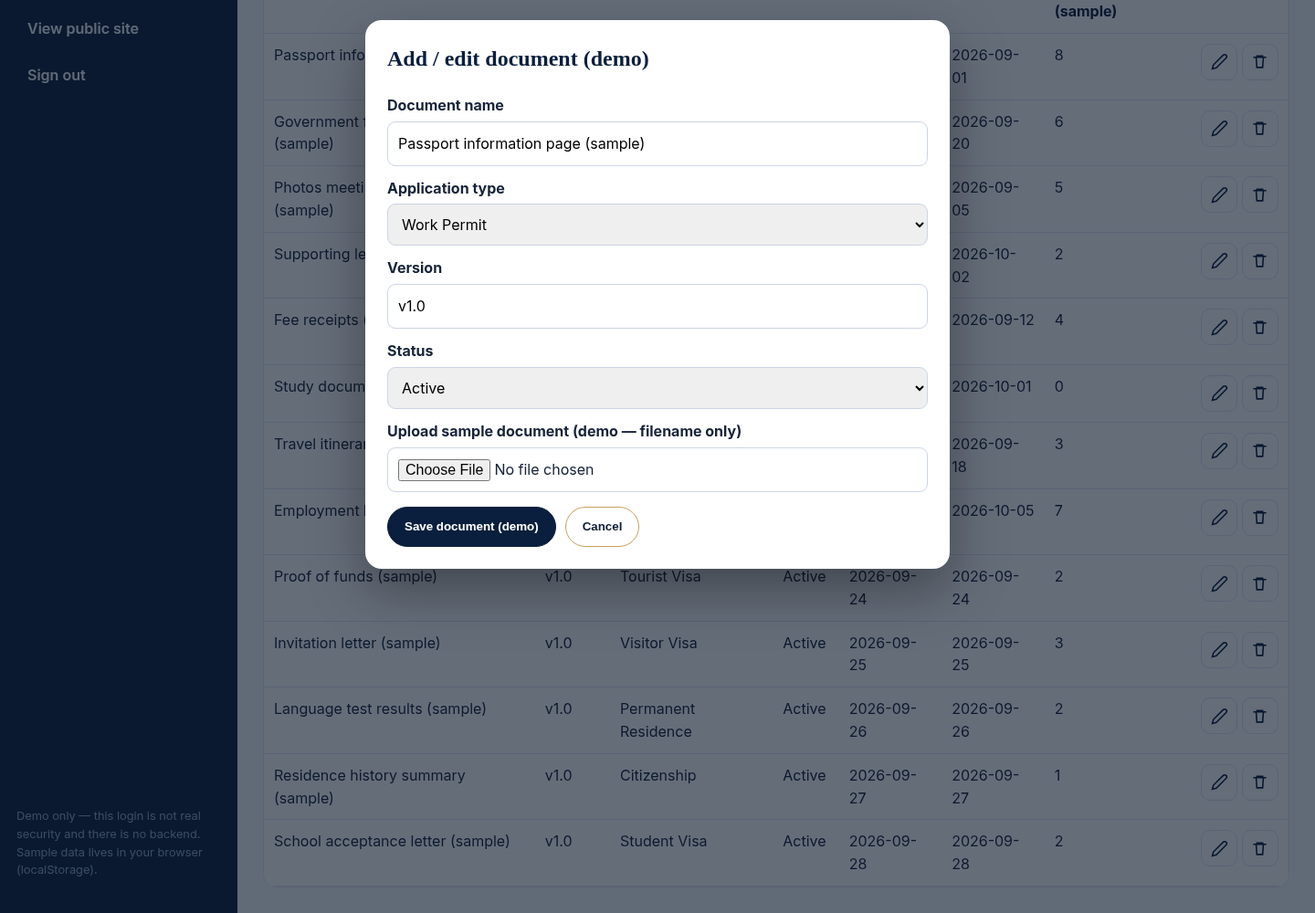
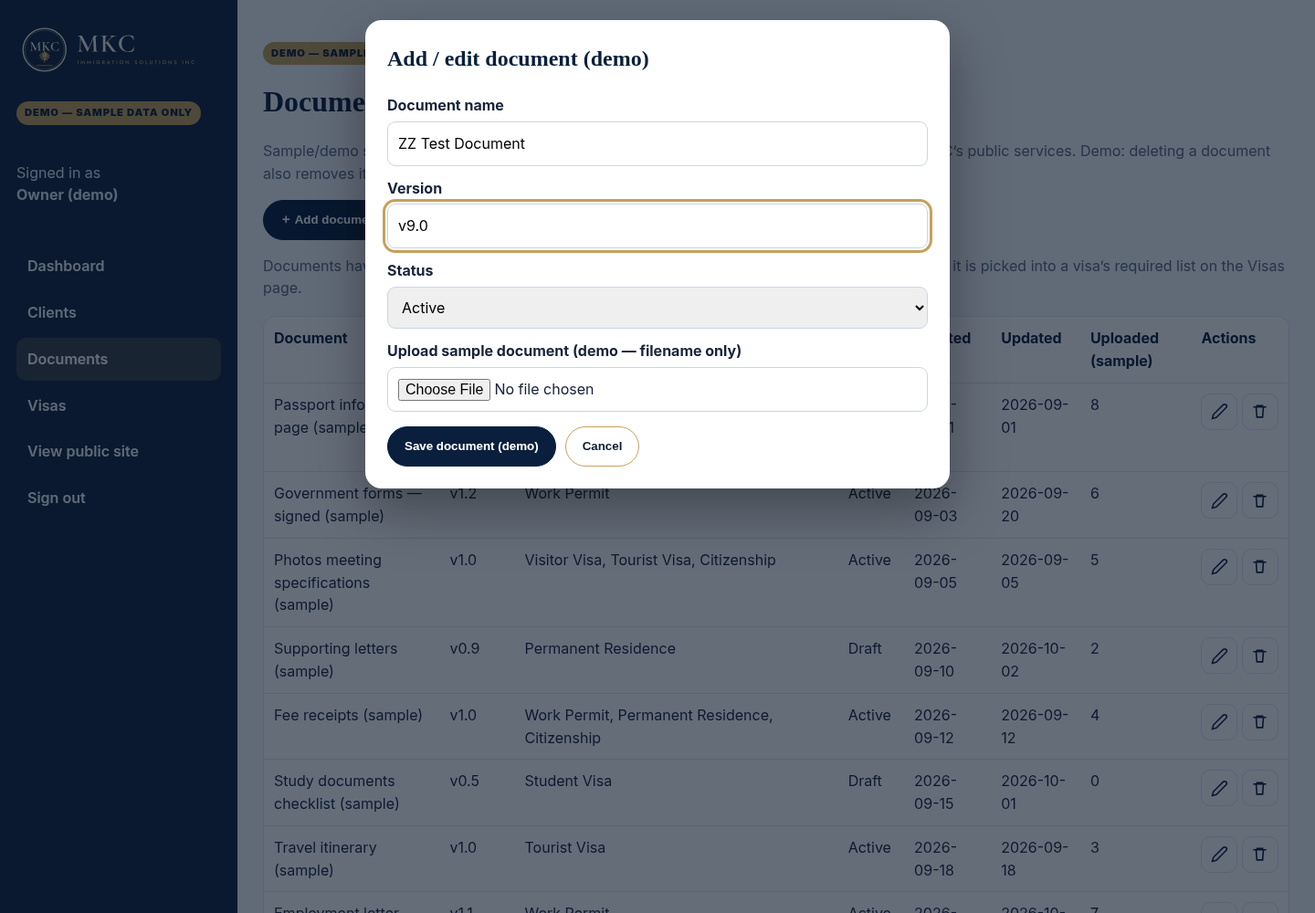
Remove application type from documents; derive required-for from visas

diff --git a/dist/assets/demo-data.js b/dist/assets/demo-data.js
@@ -13,20 +13,20 @@ var ALIAS={'Permanent Resident':'Permanent Residence','Student':'Student Visa','
 function alias(t){return ALIAS[t]||t;}
 function today(){return new Date().toISOString().slice(0,10);}
 function docsSeed(){return [
- {id:'d1',name:'Passport information page (sample)',version:'v1.0',type:'Work Permit',status:'Active',createdAt:'2026-09-01',updatedAt:'2026-09-01',uploaded:8,sampleFileName:''},
- {id:'d2',name:'Government forms — signed (sample)',version:'v1.2',type:'Work Permit',status:'Active',createdAt:'2026-09-03',updatedAt:'2026-09-20',uploaded:6,sampleFileName:''},
- {id:'d3',name:'Photos meeting specifications (sample)',version:'v1.0',type:'Visitor Visa',status:'Active',createdAt:'2026-09-05',updatedAt:'2026-09-05',uploaded:5,sampleFileName:''},
- {id:'d4',name:'Supporting letters (sample)',version:'v0.9',type:'Permanent Residence',status:'Draft',createdAt:'2026-09-10',updatedAt:'2026-10-02',uploaded:2,sampleFileName:''},
- {id:'d5',name:'Fee receipts (sample)',version:'v1.0',type:'Citizenship',status:'Active',createdAt:'2026-09-12',updatedAt:'2026-09-12',uploaded:4,sampleFileName:''},
- {id:'d6',name:'Study documents checklist (sample)',version:'v0.5',type:'Student Visa',status:'Draft',createdAt:'2026-09-15',updatedAt:'2026-10-01',uploaded:0,sampleFileName:''},
- {id:'d7',name:'Travel itinerary (sample)',version:'v1.0',type:'Tourist Visa',status:'Active',createdAt:'2026-09-18',updatedAt:'2026-09-18',uploaded:3,sampleFileName:''},
- {id:'d8',name:'Employment letter (sample)',version:'v1.1',type:'Work Permit',status:'Active',createdAt:'2026-09-22',updatedAt:'2026-10-05',uploaded:7,sampleFileName:''},
- {id:'d9',name:'Proof of funds (sample)',version:'v1.0',type:'Tourist Visa',status:'Active',createdAt:'2026-09-24',updatedAt:'2026-09-24',uploaded:2,sampleFileName:''},
- {id:'d10',name:'Invitation letter (sample)',version:'v1.0',type:'Visitor Visa',status:'Active',createdAt:'2026-09-25',updatedAt:'2026-09-25',uploaded:3,sampleFileName:''},
- {id:'d11',name:'Language test results (sample)',version:'v1.0',type:'Permanent Residence',status:'Active',createdAt:'2026-09-26',updatedAt:'2026-09-26',uploaded:2,sampleFileName:''},
- {id:'d12',name:'Residence history summary (sample)',version:'v1.0',type:'Citizenship',status:'Active',createdAt:'2026-09-27',updatedAt:'2026-09-27',uploaded:1,sampleFileName:''},
- {id:'d13',name:'School acceptance letter (sample)',version:'v1.0',type:'Student Visa',status:'Active',createdAt:'2026-09-28',updatedAt:'2026-09-28',uploaded:2,sampleFileName:''},
- {id:'d14',name:'Consultation notes (sample)',version:'v1.0',type:'General Consulting',status:'Active',createdAt:'2026-09-29',updatedAt:'2026-09-29',uploaded:1,sampleFileName:''}];}
+ {id:'d1',name:'Passport information page (sample)',version:'v1.0',status:'Active',createdAt:'2026-09-01',updatedAt:'2026-09-01',uploaded:8,sampleFileName:''},
+ {id:'d2',name:'Government forms — signed (sample)',version:'v1.2',status:'Active',createdAt:'2026-09-03',updatedAt:'2026-09-20',uploaded:6,sampleFileName:''},
+ {id:'d3',name:'Photos meeting specifications (sample)',version:'v1.0',status:'Active',createdAt:'2026-09-05',updatedAt:'2026-09-05',uploaded:5,sampleFileName:''},
+ {id:'d4',name:'Supporting letters (sample)',version:'v0.9',status:'Draft',createdAt:'2026-09-10',updatedAt:'2026-10-02',uploaded:2,sampleFileName:''},
+ {id:'d5',name:'Fee receipts (sample)',version:'v1.0',status:'Active',createdAt:'2026-09-12',updatedAt:'2026-09-12',uploaded:4,sampleFileName:''},
+ {id:'d6',name:'Study documents checklist (sample)',version:'v0.5',status:'Draft',createdAt:'2026-09-15',updatedAt:'2026-10-01',uploaded:0,sampleFileName:''},
+ {id:'d7',name:'Travel itinerary (sample)',version:'v1.0',status:'Active',createdAt:'2026-09-18',updatedAt:'2026-09-18',uploaded:3,sampleFileName:''},
+ {id:'d8',name:'Employment letter (sample)',version:'v1.1',status:'Active',createdAt:'2026-09-22',updatedAt:'2026-10-05',uploaded:7,sampleFileName:''},
+ {id:'d9',name:'Proof of funds (sample)',version:'v1.0',status:'Active',createdAt:'2026-09-24',updatedAt:'2026-09-24',uploaded:2,sampleFileName:''},
+ {id:'d10',name:'Invitation letter (sample)',version:'v1.0',status:'Active',createdAt:'2026-09-25',updatedAt:'2026-09-25',uploaded:3,sampleFileName:''},
+ {id:'d11',name:'Language test results (sample)',version:'v1.0',status:'Active',createdAt:'2026-09-26',updatedAt:'2026-09-26',uploaded:2,sampleFileName:''},
+ {id:'d12',name:'Residence history summary (sample)',version:'v1.0',status:'Active',createdAt:'2026-09-27',updatedAt:'2026-09-27',uploaded:1,sampleFileName:''},
+ {id:'d13',name:'School acceptance letter (sample)',version:'v1.0',status:'Active',createdAt:'2026-09-28',updatedAt:'2026-09-28',uploaded:2,sampleFileName:''},
+ {id:'d14',name:'Consultation notes (sample)',version:'v1.0',status:'Active',createdAt:'2026-09-29',updatedAt:'2026-09-29',uploaded:1,sampleFileName:''}];}
 function visasSeed(){function v(id,name,eff,notes,docIds){return {id:id,name:name,effective:eff,notes:notes,docIds:docIds,createdAt:'2026-09-01',updatedAt:'2026-10-01'};}
  return [v('v-work','Work Permit','2026-01-01','Sample visa entry for demo purposes.',['d1','d2','d8','d5']),
  v('v-visitor','Visitor Visa','2026-01-01','Sample visa entry for demo purposes.',['d1','d3','d10','d9']),
@@ -52,7 +52,7 @@ function migrate(old){
  var s=seed(); try{
   if(old.clients&&old.clients.length)s.clients=old.clients.map(function(c){c.middle=c.middle||'';c.createdAt=c.createdAt||c.date||'2026-09-01';c.updatedAt=c.updatedAt||c.createdAt;return c;});
   if(old.applications&&old.applications.length)s.applications=old.applications.map(function(a){a.type=alias(a.type);a.createdAt=a.createdAt||a.date||today();a.updatedAt=a.updatedAt||a.createdAt;return a;});
-  if(old.documents&&old.documents.length)s.documents=old.documents.map(function(d){d.type=alias(d.type);d.sampleFileName=d.sampleFileName||'';return d;});
+  if(old.documents&&old.documents.length)s.documents=old.documents.map(function(d){delete d.type;delete d.applicationType;d.sampleFileName=d.sampleFileName||'';return d;});
   if(old.tasks)s.tasks=old.tasks; if(old.announcements)s.announcements=old.announcements;
   // carry checklist state by keyword -> docId
   var kw=[['passport','d1'],['form','d2'],['photo','d3'],['support','d4'],['fee','d5']];
@@ -61,7 +61,8 @@ function migrate(old){
  }catch(e){}
  return s;
 }
-function load(){try{var raw=localStorage.getItem(KEY);if(raw){var d=JSON.parse(raw);if(d&&d.version===2)return d;}
+function stripDocTypes(d){var changed=false;(d.documents||[]).forEach(function(doc){if('type' in doc){delete doc.type;changed=true;}if('applicationType' in doc){delete doc.applicationType;changed=true;}});return changed;}
+function load(){try{var raw=localStorage.getItem(KEY);if(raw){var d=JSON.parse(raw);if(d&&d.version===2){if(stripDocTypes(d))save(d);return d;}}
  var oldRaw=localStorage.getItem(OLDKEY); if(oldRaw){var m=migrate(JSON.parse(oldRaw)); save(m); return m;}}catch(e){} var s=seed();save(s);return s;}
 function save(d){localStorage.setItem(KEY,JSON.stringify(d));}
 function reset(){localStorage.removeItem(KEY);localStorage.removeItem(OLDKEY);return load();}

diff --git a/site/assets/demo-data.js b/site/assets/demo-data.js
@@ -13,20 +13,20 @@ var ALIAS={'Permanent Resident':'Permanent Residence','Student':'Student Visa','
 function alias(t){return ALIAS[t]||t;}
 function today(){return new Date().toISOString().slice(0,10);}
 function docsSeed(){return [
- {id:'d1',name:'Passport information page (sample)',version:'v1.0',type:'Work Permit',status:'Active',createdAt:'2026-09-01',updatedAt:'2026-09-01',uploaded:8,sampleFileName:''},
- {id:'d2',name:'Government forms — signed (sample)',version:'v1.2',type:'Work Permit',status:'Active',createdAt:'2026-09-03',updatedAt:'2026-09-20',uploaded:6,sampleFileName:''},
- {id:'d3',name:'Photos meeting specifications (sample)',version:'v1.0',type:'Visitor Visa',status:'Active',createdAt:'2026-09-05',updatedAt:'2026-09-05',uploaded:5,sampleFileName:''},
- {id:'d4',name:'Supporting letters (sample)',version:'v0.9',type:'Permanent Residence',status:'Draft',createdAt:'2026-09-10',updatedAt:'2026-10-02',uploaded:2,sampleFileName:''},
- {id:'d5',name:'Fee receipts (sample)',version:'v1.0',type:'Citizenship',status:'Active',createdAt:'2026-09-12',updatedAt:'2026-09-12',uploaded:4,sampleFileName:''},
- {id:'d6',name:'Study documents checklist (sample)',version:'v0.5',type:'Student Visa',status:'Draft',createdAt:'2026-09-15',updatedAt:'2026-10-01',uploaded:0,sampleFileName:''},
- {id:'d7',name:'Travel itinerary (sample)',version:'v1.0',type:'Tourist Visa',status:'Active',createdAt:'2026-09-18',updatedAt:'2026-09-18',uploaded:3,sampleFileName:''},
- {id:'d8',name:'Employment letter (sample)',version:'v1.1',type:'Work Permit',status:'Active',createdAt:'2026-09-22',updatedAt:'2026-10-05',uploaded:7,sampleFileName:''},
- {id:'d9',name:'Proof of funds (sample)',version:'v1.0',type:'Tourist Visa',status:'Active',createdAt:'2026-09-24',updatedAt:'2026-09-24',uploaded:2,sampleFileName:''},
- {id:'d10',name:'Invitation letter (sample)',version:'v1.0',type:'Visitor Visa',status:'Active',createdAt:'2026-09-25',updatedAt:'2026-09-25',uploaded:3,sampleFileName:''},
- {id:'d11',name:'Language test results (sample)',version:'v1.0',type:'Permanent Residence',status:'Active',createdAt:'2026-09-26',updatedAt:'2026-09-26',uploaded:2,sampleFileName:''},
- {id:'d12',name:'Residence history summary (sample)',version:'v1.0',type:'Citizenship',status:'Active',createdAt:'2026-09-27',updatedAt:'2026-09-27',uploaded:1,sampleFileName:''},
- {id:'d13',name:'School acceptance letter (sample)',version:'v1.0',type:'Student Visa',status:'Active',createdAt:'2026-09-28',updatedAt:'2026-09-28',uploaded:2,sampleFileName:''},
- {id:'d14',name:'Consultation notes (sample)',version:'v1.0',type:'General Consulting',status:'Active',createdAt:'2026-09-29',updatedAt:'2026-09-29',uploaded:1,sampleFileName:''}];}
+ {id:'d1',name:'Passport information page (sample)',version:'v1.0',status:'Active',createdAt:'2026-09-01',updatedAt:'2026-09-01',uploaded:8,sampleFileName:''},
+ {id:'d2',name:'Government forms — signed (sample)',version:'v1.2',status:'Active',createdAt:'2026-09-03',updatedAt:'2026-09-20',uploaded:6,sampleFileName:''},
+ {id:'d3',name:'Photos meeting specifications (sample)',version:'v1.0',status:'Active',createdAt:'2026-09-05',updatedAt:'2026-09-05',uploaded:5,sampleFileName:''},
+ {id:'d4',name:'Supporting letters (sample)',version:'v0.9',status:'Draft',createdAt:'2026-09-10',updatedAt:'2026-10-02',uploaded:2,sampleFileName:''},
+ {id:'d5',name:'Fee receipts (sample)',version:'v1.0',status:'Active',createdAt:'2026-09-12',updatedAt:'2026-09-12',uploaded:4,sampleFileName:''},
+ {id:'d6',name:'Study documents checklist (sample)',version:'v0.5',status:'Draft',createdAt:'2026-09-15',updatedAt:'2026-10-01',uploaded:0,sampleFileName:''},
+ {id:'d7',name:'Travel itinerary (sample)',version:'v1.0',status:'Active',createdAt:'2026-09-18',updatedAt:'2026-09-18',uploaded:3,sampleFileName:''},
+ {id:'d8',name:'Employment letter (sample)',version:'v1.1',status:'Active',createdAt:'2026-09-22',updatedAt:'2026-10-05',uploaded:7,sampleFileName:''},
+ {id:'d9',name:'Proof of funds (sample)',version:'v1.0',status:'Active',createdAt:'2026-09-24',updatedAt:'2026-09-24',uploaded:2,sampleFileName:''},
+ {id:'d10',name:'Invitation letter (sample)',version:'v1.0',status:'Active',createdAt:'2026-09-25',updatedAt:'2026-09-25',uploaded:3,sampleFileName:''},
+ {id:'d11',name:'Language test results (sample)',version:'v1.0',status:'Active',createdAt:'2026-09-26',updatedAt:'2026-09-26',uploaded:2,sampleFileName:''},
+ {id:'d12',name:'Residence history summary (sample)',version:'v1.0',status:'Active',createdAt:'2026-09-27',updatedAt:'2026-09-27',uploaded:1,sampleFileName:''},
+ {id:'d13',name:'School acceptance letter (sample)',version:'v1.0',status:'Active',createdAt:'2026-09-28',updatedAt:'2026-09-28',uploaded:2,sampleFileName:''},
+ {id:'d14',name:'Consultation notes (sample)',version:'v1.0',status:'Active',createdAt:'2026-09-29',updatedAt:'2026-09-29',uploaded:1,sampleFileName:''}];}
 function visasSeed(){function v(id,name,eff,notes,docIds){return {id:id,name:name,effective:eff,notes:notes,docIds:docIds,createdAt:'2026-09-01',updatedAt:'2026-10-01'};}
  return [v('v-work','Work Permit','2026-01-01','Sample visa entry for demo purposes.',['d1','d2','d8','d5']),
  v('v-visitor','Visitor Visa','2026-01-01','Sample visa entry for demo purposes.',['d1','d3','d10','d9']),
@@ -52,7 +52,7 @@ function migrate(old){
  var s=seed(); try{
   if(old.clients&&old.clients.length)s.clients=old.clients.map(function(c){c.middle=c.middle||'';c.createdAt=c.createdAt||c.date||'2026-09-01';c.updatedAt=c.updatedAt||c.createdAt;return c;});
   if(old.applications&&old.applications.length)s.applications=old.applications.map(function(a){a.type=alias(a.type);a.createdAt=a.createdAt||a.date||today();a.updatedAt=a.updatedAt||a.createdAt;return a;});
-  if(old.documents&&old.documents.length)s.documents=old.documents.map(function(d){d.type=alias(d.type);d.sampleFileName=d.sampleFileName||'';return d;});
+  if(old.documents&&old.documents.length)s.documents=old.documents.map(function(d){delete d.type;delete d.applicationType;d.sampleFileName=d.sampleFileName||'';return d;});
   if(old.tasks)s.tasks=old.tasks; if(old.announcements)s.announcements=old.announcements;
   // carry checklist state by keyword -> docId
   var kw=[['passport','d1'],['form','d2'],['photo','d3'],['support','d4'],['fee','d5']];
@@ -61,7 +61,8 @@ function migrate(old){
  }catch(e){}
  return s;
 }
-function load(){try{var raw=localStorage.getItem(KEY);if(raw){var d=JSON.parse(raw);if(d&&d.version===2)return d;}
+function stripDocTypes(d){var changed=false;(d.documents||[]).forEach(function(doc){if('type' in doc){delete doc.type;changed=true;}if('applicationType' in doc){delete doc.applicationType;changed=true;}});return changed;}
+function load(){try{var raw=localStorage.getItem(KEY);if(raw){var d=JSON.parse(raw);if(d&&d.version===2){if(stripDocTypes(d))save(d);return d;}}
  var oldRaw=localStorage.getItem(OLDKEY); if(oldRaw){var m=migrate(JSON.parse(oldRaw)); save(m); return m;}}catch(e){} var s=seed();save(s);return s;}
 function save(d){localStorage.setItem(KEY,JSON.stringify(d));}
 function reset(){localStorage.removeItem(KEY);localStorage.removeItem(OLDKEY);return load();}

diff --git a/dist/assets/dashboard.js b/dist/assets/dashboard.js
@@ -105,17 +105,16 @@ if(page==='clients'){
 /* ================= OWNER: documents ================= */
 if(page==='documents'){
  var pendingDelete=null;
- function render(){var ty=$('dType').value;var list=data.documents.filter(function(d){return !ty||d.type===ty;});
-  $('docRows').innerHTML=list.map(function(d){return '<tr><td>'+esc(d.name)+'</td><td>'+esc(d.version)+'</td><td>'+esc(d.type)+'</td><td>'+esc(d.status)+'</td><td>'+esc(d.createdAt)+'</td><td>'+esc(d.updatedAt)+'</td><td>'+d.uploaded+(d.sampleFileName?'<br><span class="muted">Sample file: '+esc(d.sampleFileName)+'</span>':'')+'</td><td style="white-space:nowrap"><button type="button" class="icon-btn" data-edit="'+d.id+'" aria-label="Edit document '+esc(d.name)+'" title="Edit document">'+PENCIL+'</button> <button type="button" class="icon-btn danger" data-del="'+d.id+'" aria-label="Delete document '+esc(d.name)+'" title="Delete document">'+TRASH+'</button></td></tr>';}).join('');
-  document.querySelectorAll('[data-edit]').forEach(function(b){b.addEventListener('click',function(){var d=S.docById(data,b.getAttribute('data-edit'));$('docId').value=d.id;$('docName').value=d.name;$('docTypeForm').value=d.type;$('docVersion').value=d.version;$('docStatus').value=d.status;$('docFileName').textContent=d.sampleFileName?('Sample file (name only): '+d.sampleFileName):'';openModal('docModal');lastFocus=b;});});
+ function render(){var list=data.documents;
+  $('docRows').innerHTML=list.map(function(d){return '<tr><td>'+esc(d.name)+'</td><td>'+esc(d.version)+'</td><td>'+esc((data.visas||[]).filter(function(v){return v.docIds.indexOf(d.id)>-1;}).map(function(v){return v.name;}).join(', ')||'—')+'</td><td>'+esc(d.status)+'</td><td>'+esc(d.createdAt)+'</td><td>'+esc(d.updatedAt)+'</td><td>'+d.uploaded+(d.sampleFileName?'<br><span class="muted">Sample file: '+esc(d.sampleFileName)+'</span>':'')+'</td><td style="white-space:nowrap"><button type="button" class="icon-btn" data-edit="'+d.id+'" aria-label="Edit document '+esc(d.name)+'" title="Edit document">'+PENCIL+'</button> <button type="button" class="icon-btn danger" data-del="'+d.id+'" aria-label="Delete document '+esc(d.name)+'" title="Delete document">'+TRASH+'</button></td></tr>';}).join('');
+  document.querySelectorAll('[data-edit]').forEach(function(b){b.addEventListener('click',function(){var d=S.docById(data,b.getAttribute('data-edit'));$('docId').value=d.id;$('docName').value=d.name;$('docVersion').value=d.version;$('docStatus').value=d.status;$('docFileName').textContent=d.sampleFileName?('Sample file (name only): '+d.sampleFileName):'';openModal('docModal');lastFocus=b;});});
   document.querySelectorAll('[data-del]').forEach(function(b){b.addEventListener('click',function(){pendingDelete=b.getAttribute('data-del');var d=S.docById(data,pendingDelete);$('deleteMsg').textContent='Delete “'+d.name+'” (demo)? It will also be removed from any visa required-document lists that use it.';openModal('confirmModal');lastFocus=b;});});}
  $('confirmDelete').addEventListener('click',function(){if(!pendingDelete)return;data.documents=data.documents.filter(function(d){return d.id!==pendingDelete;});data.visas.forEach(function(v){v.docIds=v.docIds.filter(function(id){return id!==pendingDelete;});v.updatedAt=S.today();});pendingDelete=null;S.save(data);closeModal('confirmModal');render();});
- $('dType').addEventListener('input',render);
  $('addDocBtn').addEventListener('click',function(){$('docForm').reset();$('docId').value='';$('docFileName').textContent='';openModal('docModal');});
  $('docFile').addEventListener('change',function(){var d=S.docById(data,$('docId').value);var name=$('docFile').files[0]?$('docFile').files[0].name:'';if(name){$('docFileName').textContent='Sample file (name only): '+name;if(d){d.sampleFileName=name;d.updatedAt=S.today();S.save(data);render();}else{$('docFileName').dataset.pending=name;}}});
  $('docForm').addEventListener('submit',function(e){e.preventDefault();var today=S.today();var id=$('docId').value;
-  if(id){var d=S.docById(data,id);d.name=$('docName').value;d.type=$('docTypeForm').value;d.version=$('docVersion').value;d.status=$('docStatus').value;d.updatedAt=today;if($('docFileName').dataset.pending){d.sampleFileName=$('docFileName').dataset.pending;delete $('docFileName').dataset.pending;}$('docMsg').textContent='Updated sample document.';}
-  else{data.documents.push({id:'d-'+Date.now(),name:$('docName').value,type:$('docTypeForm').value,version:$('docVersion').value||'v1.0',status:$('docStatus').value,createdAt:today,updatedAt:today,uploaded:0,sampleFileName:$('docFileName').dataset.pending||''});delete $('docFileName').dataset.pending;$('docMsg').textContent='Added sample document.';}
+  if(id){var d=S.docById(data,id);d.name=$('docName').value;delete d.type;delete d.applicationType;d.version=$('docVersion').value;d.status=$('docStatus').value;d.updatedAt=today;if($('docFileName').dataset.pending){d.sampleFileName=$('docFileName').dataset.pending;delete $('docFileName').dataset.pending;}$('docMsg').textContent='Updated sample document.';}
+  else{data.documents.push({id:'d-'+Date.now(),name:$('docName').value,version:$('docVersion').value||'v1.0',status:$('docStatus').value,createdAt:today,updatedAt:today,uploaded:0,sampleFileName:$('docFileName').dataset.pending||''});delete $('docFileName').dataset.pending;$('docMsg').textContent='Added sample document.';}
   S.save(data);closeModal('docModal');render();});
  render();
 }

diff --git a/site/assets/dashboard.js b/site/assets/dashboard.js
@@ -105,17 +105,16 @@ if(page==='clients'){
 /* ================= OWNER: documents ================= */
 if(page==='documents'){
  var pendingDelete=null;
- function render(){var ty=$('dType').value;var list=data.documents.filter(function(d){return !ty||d.type===ty;});
-  $('docRows').innerHTML=list.map(function(d){return '<tr><td>'+esc(d.name)+'</td><td>'+esc(d.version)+'</td><td>'+esc(d.type)+'</td><td>'+esc(d.status)+'</td><td>'+esc(d.createdAt)+'</td><td>'+esc(d.updatedAt)+'</td><td>'+d.uploaded+(d.sampleFileName?'<br><span class="muted">Sample file: '+esc(d.sampleFileName)+'</span>':'')+'</td><td style="white-space:nowrap"><button type="button" class="icon-btn" data-edit="'+d.id+'" aria-label="Edit document '+esc(d.name)+'" title="Edit document">'+PENCIL+'</button> <button type="button" class="icon-btn danger" data-del="'+d.id+'" aria-label="Delete document '+esc(d.name)+'" title="Delete document">'+TRASH+'</button></td></tr>';}).join('');
-  document.querySelectorAll('[data-edit]').forEach(function(b){b.addEventListener('click',function(){var d=S.docById(data,b.getAttribute('data-edit'));$('docId').value=d.id;$('docName').value=d.name;$('docTypeForm').value=d.type;$('docVersion').value=d.version;$('docStatus').value=d.status;$('docFileName').textContent=d.sampleFileName?('Sample file (name only): '+d.sampleFileName):'';openModal('docModal');lastFocus=b;});});
+ function render(){var list=data.documents;
+  $('docRows').innerHTML=list.map(function(d){return '<tr><td>'+esc(d.name)+'</td><td>'+esc(d.version)+'</td><td>'+esc((data.visas||[]).filter(function(v){return v.docIds.indexOf(d.id)>-1;}).map(function(v){return v.name;}).join(', ')||'—')+'</td><td>'+esc(d.status)+'</td><td>'+esc(d.createdAt)+'</td><td>'+esc(d.updatedAt)+'</td><td>'+d.uploaded+(d.sampleFileName?'<br><span class="muted">Sample file: '+esc(d.sampleFileName)+'</span>':'')+'</td><td style="white-space:nowrap"><button type="button" class="icon-btn" data-edit="'+d.id+'" aria-label="Edit document '+esc(d.name)+'" title="Edit document">'+PENCIL+'</button> <button type="button" class="icon-btn danger" data-del="'+d.id+'" aria-label="Delete document '+esc(d.name)+'" title="Delete document">'+TRASH+'</button></td></tr>';}).join('');
+  document.querySelectorAll('[data-edit]').forEach(function(b){b.addEventListener('click',function(){var d=S.docById(data,b.getAttribute('data-edit'));$('docId').value=d.id;$('docName').value=d.name;$('docVersion').value=d.version;$('docStatus').value=d.status;$('docFileName').textContent=d.sampleFileName?('Sample file (name only): '+d.sampleFileName):'';openModal('docModal');lastFocus=b;});});
   document.querySelectorAll('[data-del]').forEach(function(b){b.addEventListener('click',function(){pendingDelete=b.getAttribute('data-del');var d=S.docById(data,pendingDelete);$('deleteMsg').textContent='Delete “'+d.name+'” (demo)? It will also be removed from any visa required-document lists that use it.';openModal('confirmModal');lastFocus=b;});});}
  $('confirmDelete').addEventListener('click',function(){if(!pendingDelete)return;data.documents=data.documents.filter(function(d){return d.id!==pendingDelete;});data.visas.forEach(function(v){v.docIds=v.docIds.filter(function(id){return id!==pendingDelete;});v.updatedAt=S.today();});pendingDelete=null;S.save(data);closeModal('confirmModal');render();});
- $('dType').addEventListener('input',render);
  $('addDocBtn').addEventListener('click',function(){$('docForm').reset();$('docId').value='';$('docFileName').textContent='';openModal('docModal');});
  $('docFile').addEventListener('change',function(){var d=S.docById(data,$('docId').value);var name=$('docFile').files[0]?$('docFile').files[0].name:'';if(name){$('docFileName').textContent='Sample file (name only): '+name;if(d){d.sampleFileName=name;d.updatedAt=S.today();S.save(data);render();}else{$('docFileName').dataset.pending=name;}}});
  $('docForm').addEventListener('submit',function(e){e.preventDefault();var today=S.today();var id=$('docId').value;
-  if(id){var d=S.docById(data,id);d.name=$('docName').value;d.type=$('docTypeForm').value;d.version=$('docVersion').value;d.status=$('docStatus').value;d.updatedAt=today;if($('docFileName').dataset.pending){d.sampleFileName=$('docFileName').dataset.pending;delete $('docFileName').dataset.pending;}$('docMsg').textContent='Updated sample document.';}
-  else{data.documents.push({id:'d-'+Date.now(),name:$('docName').value,type:$('docTypeForm').value,version:$('docVersion').value||'v1.0',status:$('docStatus').value,createdAt:today,updatedAt:today,uploaded:0,sampleFileName:$('docFileName').dataset.pending||''});delete $('docFileName').dataset.pending;$('docMsg').textContent='Added sample document.';}
+  if(id){var d=S.docById(data,id);d.name=$('docName').value;delete d.type;delete d.applicationType;d.version=$('docVersion').value;d.status=$('docStatus').value;d.updatedAt=today;if($('docFileName').dataset.pending){d.sampleFileName=$('docFileName').dataset.pending;delete $('docFileName').dataset.pending;}$('docMsg').textContent='Updated sample document.';}
+  else{data.documents.push({id:'d-'+Date.now(),name:$('docName').value,version:$('docVersion').value||'v1.0',status:$('docStatus').value,createdAt:today,updatedAt:today,uploaded:0,sampleFileName:$('docFileName').dataset.pending||''});delete $('docFileName').dataset.pending;$('docMsg').textContent='Added sample document.';}
   S.save(data);closeModal('docModal');render();});
  render();
 }

diff --git a/dist/owner/documents.html b/dist/owner/documents.html
@@ -8,13 +8,13 @@
 <main class="main" id="main"><p><span class="demo-pill">Demo — sample data only</span></p><h1>Document requirements library</h1>
 <p class="muted">Sample/demo system data. Categories are demo library categories only — they do not confirm MKC’s public services. Demo: deleting a document also removes it from any visa required-document lists that use it.</p>
 <p><button class="btn navy" id="addDocBtn" type="button">＋ Add document</button></p>
-<div class="card"><label for="dType">Filter by application type</label><select id="dType"><option value="">All types</option><option>Tourist Visa</option><option>Visitor Visa</option><option>Work Permit</option><option>Permanent Residence</option><option>Student Visa</option><option>Citizenship</option><option>General Consulting</option></select></div>
-<div class="tablewrap" style="margin-top:18px"><table><thead><tr><th>Document</th><th>Version</th><th>Application type</th><th>Status</th><th>Created</th><th>Updated</th><th>Uploaded (sample)</th><th>Actions</th></tr></thead><tbody id="docRows"></tbody></table></div>
+<p class="muted">Documents have no application type of their own — a document becomes a requirement only when it is picked into a visa’s required list on the Visas page.</p>
+<div class="tablewrap" style="margin-top:18px"><table><thead><tr><th>Document</th><th>Version</th><th>Required for (visas)</th><th>Status</th><th>Created</th><th>Updated</th><th>Uploaded (sample)</th><th>Actions</th></tr></thead><tbody id="docRows"></tbody></table></div>
 <div class="modal-back" id="docModal" hidden><div class="modal" role="dialog" aria-modal="true" aria-labelledby="docTitle">
 <h2 id="docTitle">Add / edit document (demo)</h2>
 <form id="docForm"><input type="hidden" id="docId">
 <label for="docName">Document name</label><input id="docName" required>
-<label for="docTypeForm">Application type</label><select id="docTypeForm"><option>Tourist Visa</option><option>Visitor Visa</option><option>Work Permit</option><option>Permanent Residence</option><option>Student Visa</option><option>Citizenship</option><option>General Consulting</option></select>
+
 <label for="docVersion">Version</label><input id="docVersion" placeholder="v1.0">
 <label for="docStatus">Status</label><select id="docStatus"><option>Active</option><option>Draft</option></select>
 <label for="docFile">Upload sample document (demo — filename only)</label><input id="docFile" type="file">

diff --git a/site/owner/documents.html b/site/owner/documents.html
@@ -8,13 +8,13 @@
 <main class="main" id="main"><p><span class="demo-pill">Demo — sample data only</span></p><h1>Document requirements library</h1>
 <p class="muted">Sample/demo system data. Categories are demo library categories only — they do not confirm MKC’s public services. Demo: deleting a document also removes it from any visa required-document lists that use it.</p>
 <p><button class="btn navy" id="addDocBtn" type="button">＋ Add document</button></p>
-<div class="card"><label for="dType">Filter by application type</label><select id="dType"><option value="">All types</option><option>Tourist Visa</option><option>Visitor Visa</option><option>Work Permit</option><option>Permanent Residence</option><option>Student Visa</option><option>Citizenship</option><option>General Consulting</option></select></div>
-<div class="tablewrap" style="margin-top:18px"><table><thead><tr><th>Document</th><th>Version</th><th>Application type</th><th>Status</th><th>Created</th><th>Updated</th><th>Uploaded (sample)</th><th>Actions</th></tr></thead><tbody id="docRows"></tbody></table></div>
+<p class="muted">Documents have no application type of their own — a document becomes a requirement only when it is picked into a visa’s required list on the Visas page.</p>
+<div class="tablewrap" style="margin-top:18px"><table><thead><tr><th>Document</th><th>Version</th><th>Required for (visas)</th><th>Status</th><th>Created</th><th>Updated</th><th>Uploaded (sample)</th><th>Actions</th></tr></thead><tbody id="docRows"></tbody></table></div>
 <div class="modal-back" id="docModal" hidden><div class="modal" role="dialog" aria-modal="true" aria-labelledby="docTitle">
 <h2 id="docTitle">Add / edit document (demo)</h2>
 <form id="docForm"><input type="hidden" id="docId">
 <label for="docName">Document name</label><input id="docName" required>
-<label for="docTypeForm">Application type</label><select id="docTypeForm"><option>Tourist Visa</option><option>Visitor Visa</option><option>Work Permit</option><option>Permanent Residence</option><option>Student Visa</option><option>Citizenship</option><option>General Consulting</option></select>
+
 <label for="docVersion">Version</label><input id="docVersion" placeholder="v1.0">
 <label for="docStatus">Status</label><select id="docStatus"><option>Active</option><option>Draft</option></select>
 <label for="docFile">Upload sample document (demo — filename only)</label><input id="docFile" type="file">

diff --git a/screenshot.py b/screenshot.py
@@ -1,85 +1,51 @@
 from playwright.sync_api import sync_playwright
 import pathlib, json
-base=pathlib.Path("/workspace/sites/mkc-immigration"); shots=base/"screenshots"
-pathlib.Path("/tmp/sample-doc.pdf").write_bytes(b"%PDF demo")
-URL="http://localhost:8765"; R={}
-def login(pg,email,pw,wait):
-    pg.goto(URL+"/login.html"); pg.fill("#email",email); pg.fill("#password",pw); pg.click("#loginForm button[type=submit]"); pg.wait_for_url(wait)
+shots=pathlib.Path("/workspace/sites/mkc-immigration/screenshots"); URL="http://localhost:8765"; R={}
 with sync_playwright() as p:
- b=p.chromium.launch(executable_path="/usr/bin/google-chrome",args=["--no-sandbox","--autoplay-policy=no-user-gesture-required"])
- ctx=b.new_context(viewport={"width":1440,"height":1000}); pg=ctx.new_page()
- # footer credit absent
- for page in ["index.html","services.html"]:
-    pg.goto(URL+"/"+page); pg.wait_for_timeout(300)
-    R[f"footer_credit_absent_{page}"]="PASS" if "credit given as appreciation" not in pg.inner_text("body") else "FAIL"
- pg.screenshot(path=str(shots/"home-desktop.png"),full_page=True); pg.screenshot(path=str(shots/"desktop.png"),full_page=True)
- # regressions
- pg.goto(URL+"/client/dashboard.html"); pg.wait_for_timeout(300); R["guard"]="PASS" if "login.html" in pg.url else "FAIL"
- pg.goto(URL+"/login.html"); pg.fill("#email","x@demo.ca"); pg.fill("#password","bad"); pg.click("#loginForm button[type=submit]"); pg.wait_for_timeout(150); R["wrong_login"]="PASS" if "Incorrect demo" in pg.inner_text("#loginError") else "FAIL"
- login(pg,"owner@demo.ca","owner123","**/owner/dashboard.html"); R["owner_login"]="PASS"
- # clients
- pg.goto(URL+"/owner/clients.html"); pg.wait_for_timeout(300); pg.screenshot(path=str(shots/"clients.png"),full_page=True)
- pg.click("#nextPage"); pg.wait_for_timeout(150); R["pagination"]="PASS" if "Page 2 of" in pg.inner_text("#pageInfo") else "FAIL"
- pg.click("#prevPage")
- pg.click("#addClientBtn"); pg.wait_for_timeout(200); pg.screenshot(path=str(shots/"add-client-modal.png"))
- pg.fill("#newFirst","SampleNew"); pg.fill("#newLast","ClientTest"); pg.fill("#newEmail","samplenew@demo.ca"); pg.fill("#newPhone","(905) 555-0199"); pg.select_option("#newVisaType","Tourist Visa"); pg.fill("#newDue","2027-02-01"); pg.click("#addClientForm button[type=submit]"); pg.wait_for_timeout(300)
- pg.fill("#search","SampleNew"); pg.wait_for_timeout(200); R["add_client"]="PASS" if "SampleNew ClientTest" in pg.inner_text("#clientRows") else pg.inner_text("#clientRows")[:200]
- # edit client: add second app
- pg.click("[data-edit-client]"); pg.wait_for_timeout(250); pg.screenshot(path=str(shots/"edit-client.png"))
- pg.select_option("#editVisaType","Student Visa"); pg.fill("#editDue","2027-03-01"); pg.click("#addAppForClient"); pg.wait_for_timeout(250)
- R["edit_client_add_app_modal"]="PASS" if "Student Visa" in pg.inner_text("#editApps") else "FAIL"
- pg.click("[data-close='editClientModal']"); pg.wait_for_timeout(150)
- R["edit_client_count_table"]="PASS" if "\t2\t" in pg.inner_text("#clientRows") or "2" in pg.inner_text("#clientRows") else pg.inner_text("#clientRows")[:200]
- # documents: delete + edit/upload
+ b=p.chromium.launch(executable_path="/usr/bin/google-chrome",args=["--no-sandbox"])
+ pg=b.new_page(viewport={"width":1440,"height":1000})
+ pg.goto(URL+"/login.html"); pg.fill("#email","owner@demo.ca"); pg.fill("#password","owner123"); pg.click("#loginForm button[type=submit]"); pg.wait_for_url("**/owner/dashboard.html"); R["owner_login"]="PASS"
  pg.goto(URL+"/owner/documents.html"); pg.wait_for_timeout(300); pg.screenshot(path=str(shots/"documents.png"),full_page=True)
- pg.click("[data-del='d14']"); pg.wait_for_timeout(200); pg.click("#confirmDelete"); pg.wait_for_timeout(250)
- R["doc_delete"]="PASS" if "Consultation notes" not in pg.inner_text("#docRows") else "FAIL"
- pg.click("[data-edit='d1']"); pg.wait_for_timeout(200); pg.screenshot(path=str(shots/"documents-modal.png"))
- pg.set_input_files("#docFile","/tmp/sample-doc.pdf"); pg.wait_for_timeout(300)
- R["doc_upload_filename_shows"]="PASS" if "sample-doc.pdf" in pg.inner_text("#docFileName") else pg.inner_text("#docFileName")
- pg.click("#docForm button[type=submit]"); pg.wait_for_timeout(200); pg.reload(); pg.wait_for_timeout(300); pg.click("[data-edit='d1']"); pg.wait_for_timeout(200)
- R["doc_upload_persists_reload"]="PASS" if "sample-doc.pdf" in pg.inner_text("#docFileName") else pg.inner_text("#docFileName")
- pg.click("[data-close='docModal']")
- # visas: create with picker moves
- pg.goto(URL+"/owner/visas.html"); pg.wait_for_timeout(300); pg.screenshot(path=str(shots/"visas.png"),full_page=True)
- pg.click("#addVisaBtn"); pg.wait_for_timeout(200); pg.fill("#visaName","Sample Test Visa"); pg.fill("#visaDate","2027-01-01"); pg.fill("#visaNotes","Sample notes for test visa.")
- items=pg.locator("#availList li[data-doc]"); items.nth(0).click(); items.nth(1).click(); pg.click("#moveRight"); pg.wait_for_timeout(150)
- req=pg.locator("#reqList li[data-doc]"); R["picker_move_right_2"]="PASS" if req.count()==2 else str(req.count())
- pg.screenshot(path=str(shots/"visa-picker.png"))
- req.nth(0).click(); pg.click("#moveLeft"); pg.wait_for_timeout(150); R["picker_move_back_1"]="PASS" if pg.locator("#reqList li[data-doc]").count()==1 else "FAIL"
- pg.click("#visaForm button[type=submit]"); pg.wait_for_timeout(250); pg.reload(); pg.wait_for_timeout(300)
- R["visa_create_persists"]="PASS" if "Sample Test Visa" in pg.inner_text("#visaRows") else "FAIL"
- # edit seeded Tourist Visa populated
- pg.click("[data-edit-visa='v-tourist']"); pg.wait_for_timeout(200); R["tourist_picker_populated"]="PASS" if pg.locator("#reqList li[data-doc]").count()>=3 else str(pg.locator("#reqList li[data-doc]").count())
- pg.click("[data-close='visaModal']")
- # edit Work Permit: remove first required doc, capture expected
+ headers=pg.locator("thead th").all_inner_texts(); R["table_headers"]=headers; R["no_type_column"]="PASS" if not any("Application type" in h for h in headers) else "FAIL"
+ pg.click("#addDocBtn"); pg.wait_for_timeout(200)
+ R["modal_no_type_field"]="PASS" if pg.locator("#docTypeForm").count()==0 else "FAIL"
+ pg.fill("#docName","ZZ Test Document"); pg.fill("#docVersion","v9.0"); pg.screenshot(path=str(shots/"documents-modal.png"))
+ pg.click("#docForm button[type=submit]"); pg.wait_for_timeout(250)
+ R["add_doc_appears"]="PASS" if "ZZ Test Document" in pg.inner_text("#docRows") else "FAIL"
+ def stored():
+    return pg.evaluate("(()=>{const d=JSON.parse(localStorage.getItem('mkc_demo_v2'));return d.documents.find(x=>x.name.startsWith('ZZ Test'))})()")
+ s=stored(); R["stored_no_type_on_add"]="PASS" if s and ('type' not in s and 'applicationType' not in s) else str(s)
+ # edit it
+ did=s['id']; pg.click(f"[data-edit='{did}']"); pg.wait_for_timeout(200)
+ R["edit_modal_no_type"]="PASS" if pg.locator("#docTypeForm").count()==0 else "FAIL"
+ pg.fill("#docName","ZZ Test Document Edited"); pg.click("#docForm button[type=submit]"); pg.wait_for_timeout(200); pg.reload(); pg.wait_for_timeout(300)
+ R["edit_persists"]="PASS" if "ZZ Test Document Edited" in pg.inner_text("#docRows") else "FAIL"
+ s=stored(); R["stored_no_type_after_edit"]="PASS" if s and ('type' not in s and 'applicationType' not in s) else str(s)
+ # legacy strip: inject a legacy typed doc, reload (load strips+saves), check gone
+ pg.evaluate("(()=>{const k='mkc_demo_v2';const d=JSON.parse(localStorage.getItem(k));d.documents[0].type='Work Permit';d.documents[0].applicationType='Work Permit';localStorage.setItem(k,JSON.stringify(d));})()")
+ pg.reload(); pg.wait_for_timeout(300); s0=pg.evaluate("(()=>{const d=JSON.parse(localStorage.getItem('mkc_demo_v2'));return d.documents[0]})()")
+ R["legacy_type_stripped_on_load"]="PASS" if ('type' not in s0 and 'applicationType' not in s0) else str(s0)
+ # pick new doc into Work Permit visa
+ pg.goto(URL+"/owner/visas.html"); pg.wait_for_timeout(300)
  pg.click("[data-edit-visa='v-work']"); pg.wait_for_timeout(200)
- before=pg.locator("#reqList li[data-doc]").all_inner_texts(); pg.locator("#reqList li[data-doc]").nth(0).click(); pg.click("#moveLeft"); pg.wait_for_timeout(150); pg.click("#visaForm button[type=submit]"); pg.wait_for_timeout(250)
- expected=[x.strip() for x in before[1:]]; R["work_visa_edited_expected"]=expected
- # sign out owner
- pg.click("[data-signout]"); pg.wait_for_timeout(300); R["signout_owner"]="PASS" if "index.html" in pg.url else "FAIL"
- # client sees updated checklist
- login(pg,"client@demo.ca","client123","**/client/dashboard.html"); R["client_login"]="PASS"
- pg.screenshot(path=str(shots/"client-dashboard.png"),full_page=True)
+ pg.locator("#availList li[data-doc='"+did+"']").click(); pg.click("#moveRight"); pg.wait_for_timeout(150)
+ R["picked_into_visa"]="PASS" if pg.locator("#reqList li[data-doc='"+did+"']").count()==1 else "FAIL"
+ pg.screenshot(path=str(shots/"visa-picker.png"))
+ # also set date newest for sort regression
+ pg.fill("#visaDate","2029-01-01"); pg.click("#visaForm button[type=submit]"); pg.wait_for_timeout(250)
+ first=pg.locator("#visaRows tr").first.locator("td").first.inner_text(); R["visas_sort_newest_top"]="PASS" if "Work Permit" in first else first
+ # delete regression (d14)
+ pg.goto(URL+"/owner/documents.html"); pg.wait_for_timeout(300); pg.click("[data-del='d14']"); pg.wait_for_timeout(150); pg.click("#confirmDelete"); pg.wait_for_timeout(200)
+ R["doc_delete"]="PASS" if "Consultation notes" not in pg.inner_text("#docRows") else "FAIL"
+ pg.click("[data-signout]"); pg.wait_for_timeout(300)
+ # client sees new doc in a1 (Work Permit) checklist + upload it
+ pg.goto(URL+"/login.html"); pg.fill("#email","client@demo.ca"); pg.fill("#password","client123"); pg.click("#loginForm button[type=submit]"); pg.wait_for_url("**/client/dashboard.html"); R["client_login"]="PASS"
  pg.goto(URL+"/client/application.html?id=a1"); pg.wait_for_timeout(300)
- labels=pg.locator(".req-main strong").all_inner_texts(); labels=[x.split("—",1)[1].strip() if "—" in x else x for x in labels]
- R["client_checklist_matches_visa"]="PASS" if labels==expected else f"labels={labels} expected={expected}"
- geo=pg.evaluate("(()=>{const li=document.querySelector('.req');return li.querySelector('.req-side').getBoundingClientRect().right<=li.getBoundingClientRect().right+1})()"); R["upload_button_right"]="PASS" if geo else "FAIL"
- # tasks missing reflects checklist (before completing)
- pg.goto(URL+"/client/tasks.html"); pg.wait_for_timeout(250); R["tasks_missing_before"]="PASS" if "Missing:" in pg.inner_text("#autoTasks") else "FAIL"
- pg.goto(URL+"/client/application.html?id=a1"); pg.wait_for_timeout(250)
- n=pg.locator("input[data-upload]").count()
- for i in range(n): pg.locator(f"input[data-upload='{i}']").set_input_files("/tmp/sample-doc.pdf"); pg.wait_for_timeout(180)
- txt=pg.inner_text("#appDetail"); R["client_upload_all_complete"]="PASS" if "100% complete" in txt and "Complete" in txt else txt[:200]
- pg.screenshot(path=str(shots/"client-checklist.png"),full_page=True); pg.screenshot(path=str(shots/"application-detail.png"),full_page=True)
- pg.goto(URL+"/client/tasks.html"); pg.wait_for_timeout(250); body=pg.inner_text("#autoTasks"); R["tasks_updates_after_complete"]="PASS" if all((lbl not in body) for lbl in expected) else body[:250]
- pg.click("[data-signout]"); pg.wait_for_timeout(250); R["signout_client"]="PASS" if "index.html" in pg.url else "FAIL"
- # chat public
- pg.goto(URL+"/services.html"); pg.click("#mkcChatOpen"); pg.wait_for_timeout(150); pg.fill("#mkcChatInput","What are your fees?"); pg.click(".mkc-chat-form button[type=submit]"); pg.wait_for_timeout(150); R["chat_public"]="PASS" if "Fees are confirmed" in pg.inner_text("#mkcChatLog") else "FAIL"; pg.screenshot(path=str(shots/"chat-open.png"))
- ctx.close()
- # mobile visas
- m=b.new_context(viewport={"width":390,"height":844},is_mobile=True); mp=m.new_page(); login(mp,"owner@demo.ca","owner123","**/owner/dashboard.html"); mp.goto(URL+"/owner/visas.html"); mp.wait_for_timeout(300); mp.screenshot(path=str(shots/"visas-mobile.png"),full_page=True); mp.click("#addVisaBtn"); mp.wait_for_timeout(200); mp.screenshot(path=str(shots/"visa-picker-mobile.png")); R["mobile_no_overflow"]=mp.evaluate("document.documentElement.scrollWidth<=390?'PASS':'FAIL '+document.documentElement.scrollWidth")
- # mobile home footer
- mp.goto(URL+"/index.html"); mp.wait_for_timeout(800); mp.screenshot(path=str(shots/"home-mobile.png"),full_page=True); mp.screenshot(path=str(shots/"mobile.png"),full_page=True)
- m.close(); b.close()
+ labels=pg.locator(".req-main strong").all_inner_texts(); idx=[i for i,x in enumerate(labels) if "ZZ Test Document Edited" in x]
+ R["client_checklist_has_new_doc"]="PASS" if idx else str(labels)
+ if idx:
+    pg.locator(f"input[data-upload='{idx[0]}']").set_input_files("/tmp/sample-doc.pdf") if pathlib.Path("/tmp/sample-doc.pdf").exists() else None
+    pg.wait_for_timeout(250); R["client_upload_new_doc"]="PASS" if "ZZ Test Document Edited" in pg.inner_text("#appDetail") and "Done" in pg.inner_text("#appDetail") else "FAIL"
+ pg.screenshot(path=str(shots/"client-checklist.png"),full_page=True)
+ b.close()
 print(json.dumps(R,indent=2))

diff --git a/README.md b/README.md
@@ -30,3 +30,5 @@ Single shared store `site/assets/demo-data.js`, localStorage key `mkc_demo_v2`, 
 ## About credentials & portrait (2026-10-19)
 - `site/assets/cicc-logo.png` copied from a client-supplied inbox file (288x91 PNG) and shown in an About credentials block with the text `ICCRC#: X123456` labelled visibly as `(demo placeholder - replace with verified CICC licence no.)`. This is a DEMO PLACEHOLDER, not verified — replace with Morris's verified CICC licence number after checking the CICC Public Register before any real use.
 - `site/assets/morris-portrait.jpg` (640x800): originally a non-generative local polish; on 2026-10-19, with John's approval, ONE Higgsfield `generate_image` edit (`gpt_image_2_5`, 0.25 credits; balance 1000 -> 999.75) changed the clothing to a navy suit/white shirt/navy tie from the original inbox portrait. Face/hair/expression verified visually unchanged. Do not describe it as an unedited photograph. Raw inbox files are not committed.
+
+- Documents no longer carry an application type (2026-10-19): the modal field, table column, and the old type filter were removed (the filter only filtered by document type, so it no longer made sense). A document becomes a requirement only via a visa's required list on the Visas page; the Documents table instead shows a derived 'Required for (visas)' column. New/edited documents are saved with no `type`/`applicationType` field; on load, legacy `type`/`applicationType` fields on stored documents are stripped and the cleaned store is saved back.
